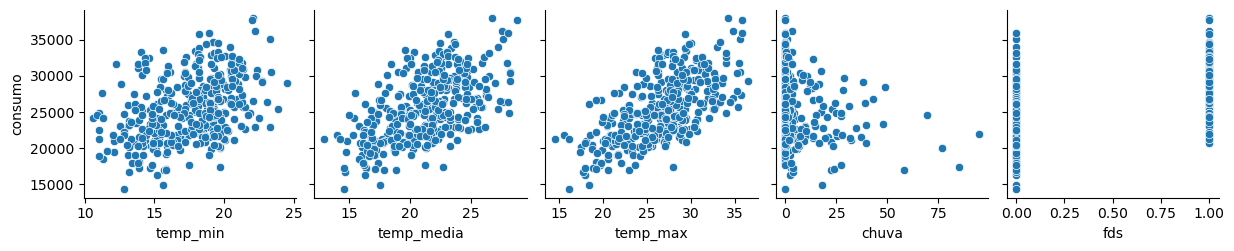
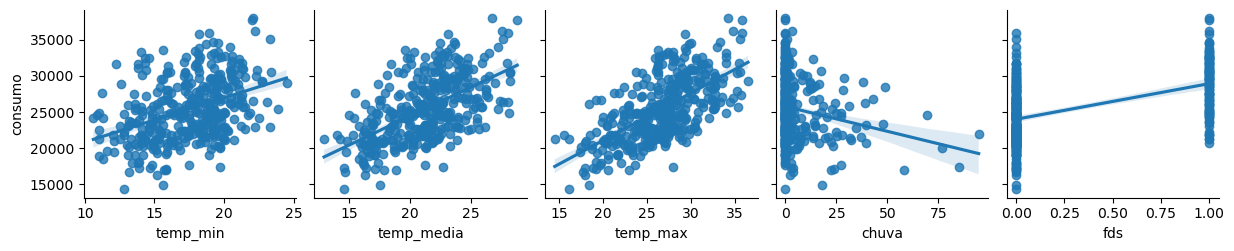
graficos de relacao de consumo com linha de regressao

diff --git a/consumo_cerveja.py b/consumo_cerveja.py
@@ -34,14 +34,8 @@ correlacao = df_consumo.corr()
 # A temperatura média, temperatura mínima e temperatura máxima têm alta correlação. Por serem variáveis explicativas, deve-se evitar trabalhar com elas em conjunto
 
 
-# Gráfico de relações
-ax = sns.pairplot(df_consumo)
-
-ax.savefig('graficos/graficos_de_relacoes.png')
-
-
 # Gráfico de relações do consumo
 
-ax_consumo = sns.pairplot(df_consumo, y_vars='consumo', x_vars=['temp_min', 'temp_media', 'temp_max', 'chuva', 'fds'])
+ax_consumo = sns.pairplot(df_consumo, y_vars='consumo', x_vars=['temp_min', 'temp_media', 'temp_max', 'chuva', 'fds'], kind='reg')
 
 ax_consumo.savefig('graficos/graficos_de_relacoes_consumo.png')
